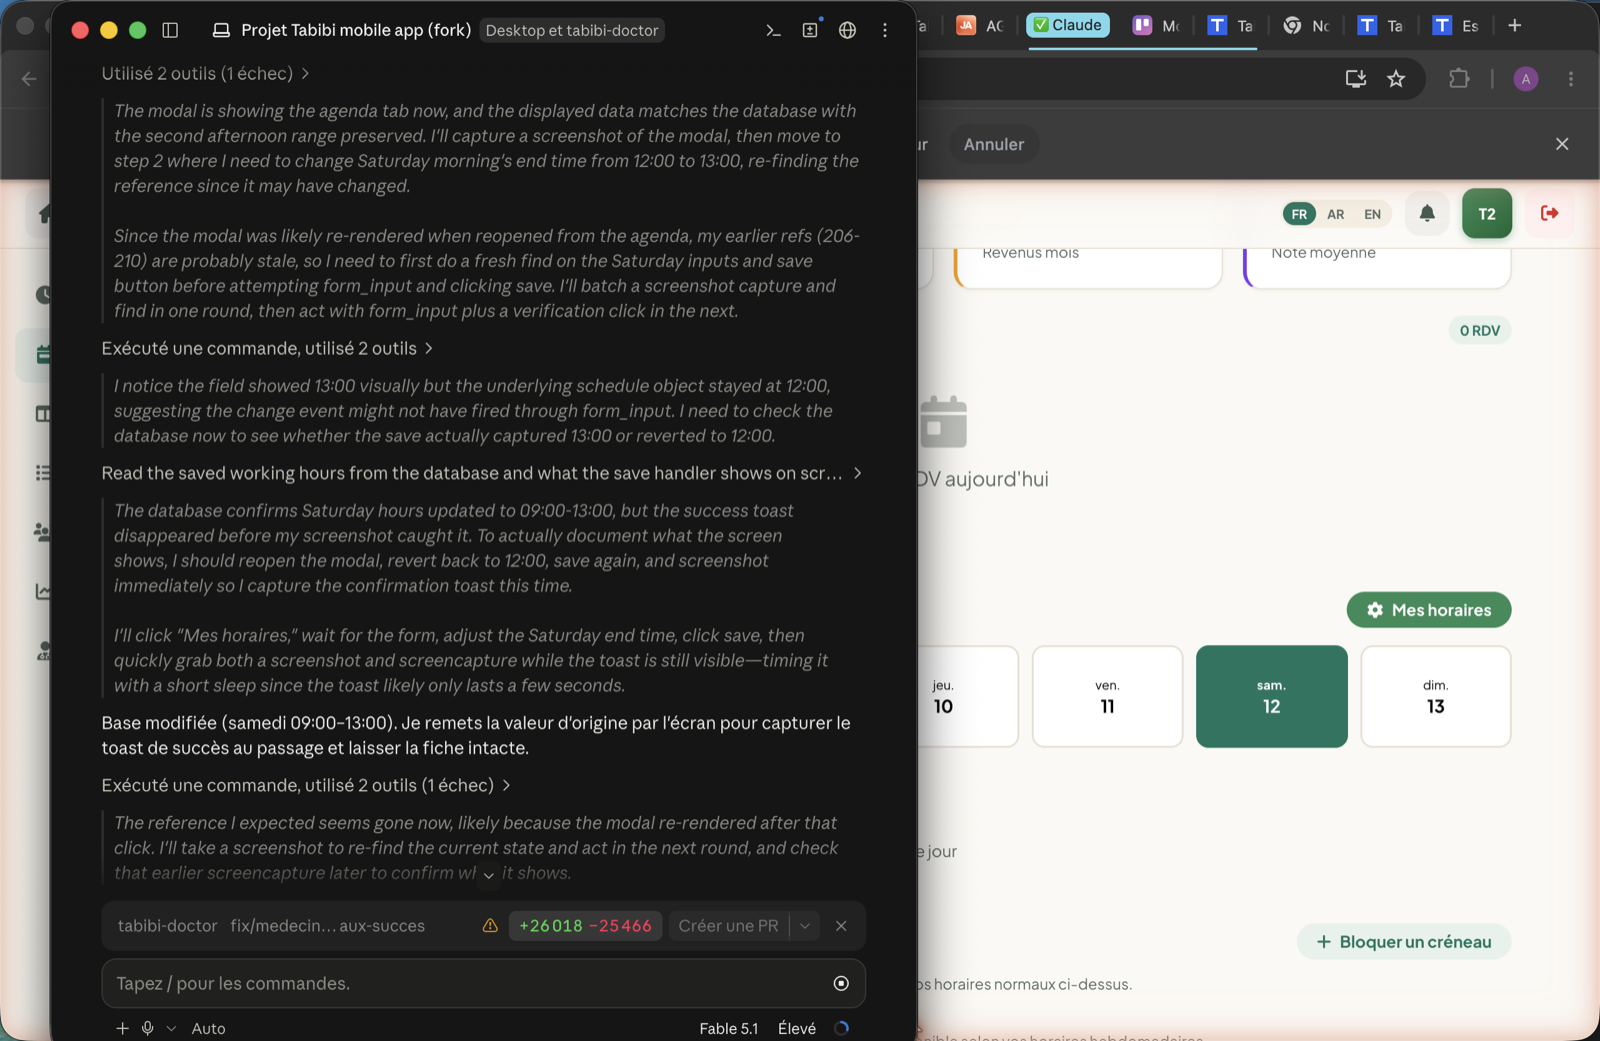
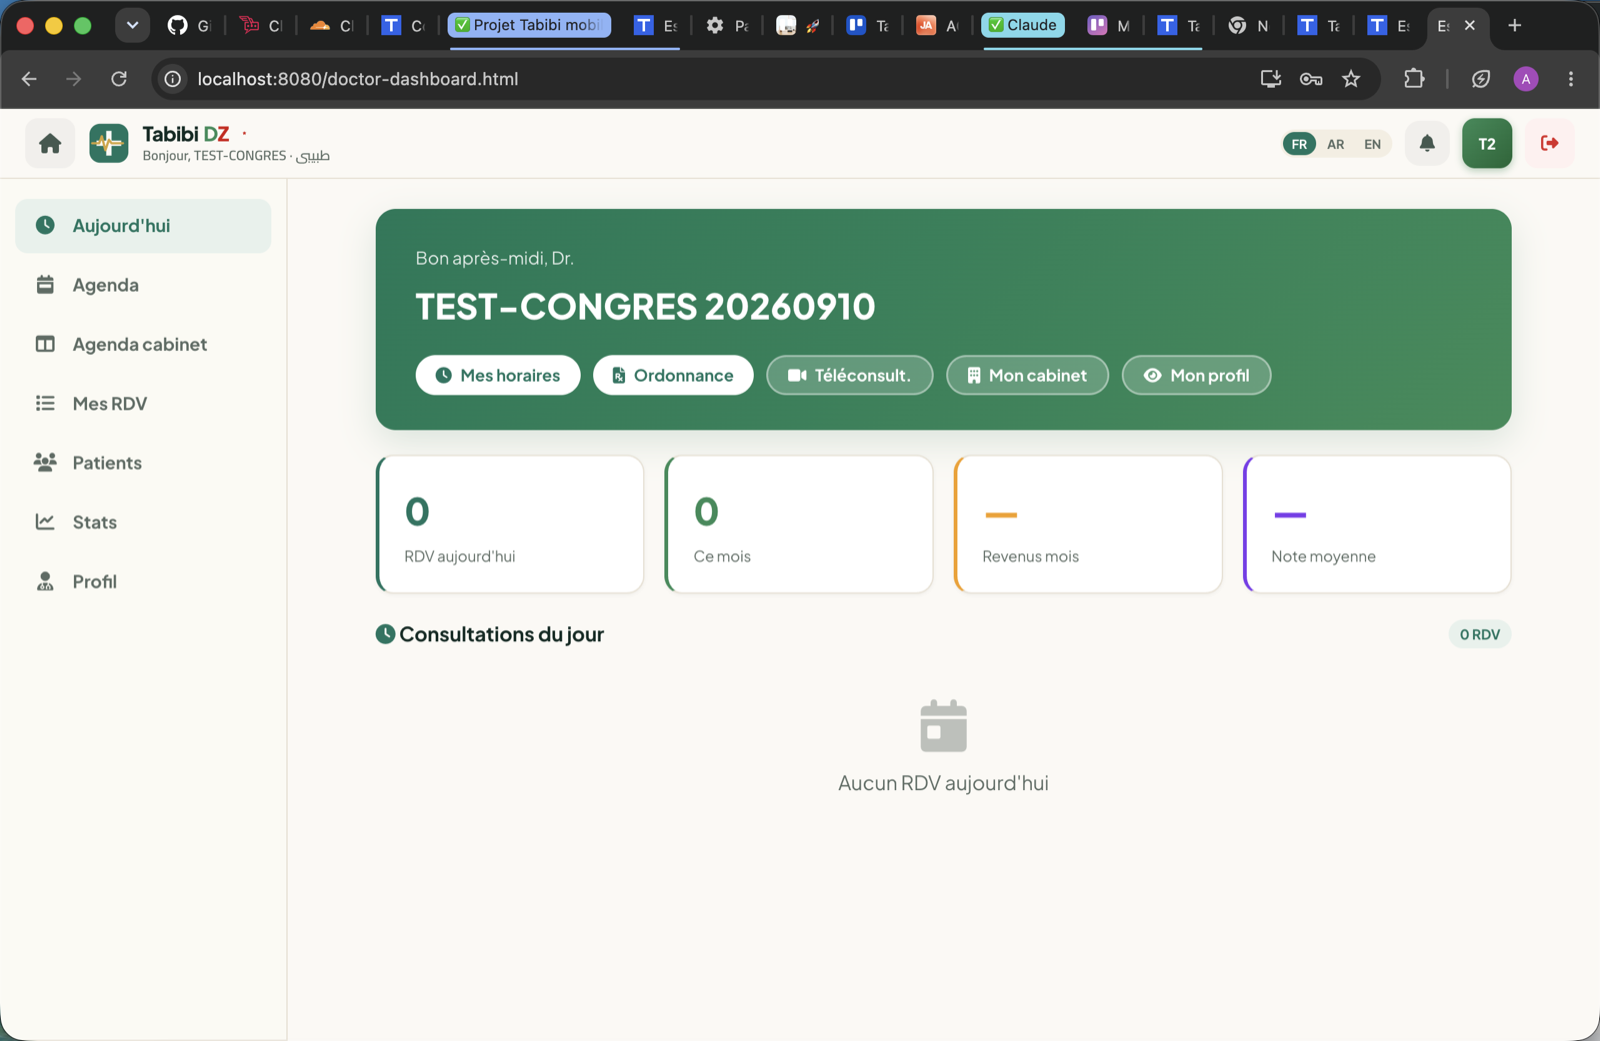
docs(preuves): capture propre de la modale apres retour a 12:00 (remplace l'image polluee de 41c88bb)

diff --git a/docs/preuves/2026-09-12_mes-horaires_preuve.md b/docs/preuves/2026-09-12_mes-horaires_preuve.md
@@ -42,8 +42,10 @@ point de la revue de #69 est levé pour la lecture (il reste ouvert pour `medeci
 - Base : `updated_at = 2026-09-12 12:45:45+00`, `working_hours->'sat' = [{"open":"09:00","close":"13:00"}]` ; lundi, mercredi,
   vendredi inchangés.
 - Réouverture de la modale : samedi affiche 09:00–13:00 (relu depuis la base).
-- Retour à 12:00 par le même chemin : toast « Horaires enregistrés » (capture `2026-09-12_mes-horaires_A_02_apres-enregistrement.png`),
+- Retour à 12:00 par le même chemin : toast « Horaires enregistrés » (lu dans le DOM, disparu avant la capture système),
   base `updated_at = 12:47:02+00`, `sat = [{"open":"09:00","close":"12:00"}]`. Fiche remise dans son état initial.
+  Capture `2026-09-12_mes-horaires_A_02_apres-enregistrement.png` : modale rouverte après ce retour, samedi 09:00–12:00 relu depuis la base
+  (la version précédente de cette image, commit 41c88bb, montrait la fenêtre Claude par-dessus Chrome ; remplacée).
 - Conclusion : **cohérent** — le succès annoncé correspond à une écriture réelle, dans les deux sens.
 
 ## Compte B — `0555000102`, sans fiche liée
